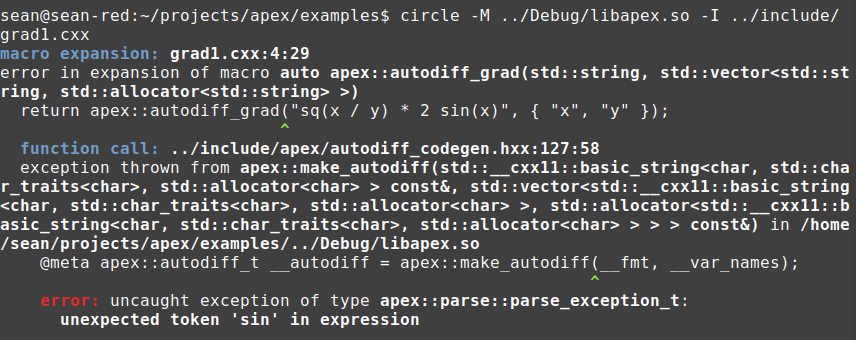
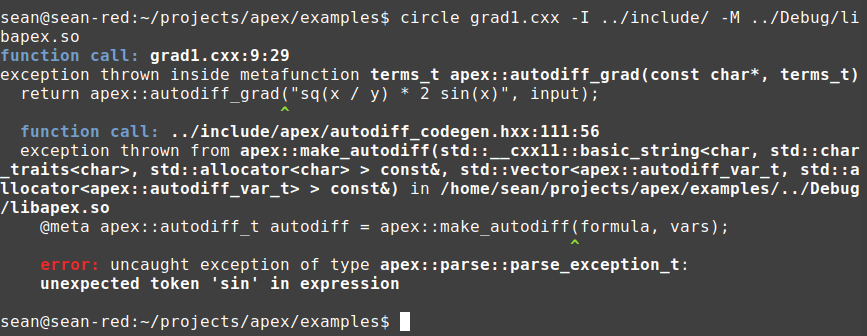
Modified autodiff interface to use introspection

Changed region(s): [[0.0, 0.0298, 1.0, 0.9821]]

diff --git a/examples/autodiff.md b/examples/autodiff.md
@@ -51,13 +51,18 @@ A strength of this approach is that it requires very little Circle code, only a 
 ```cpp
 #include <apex/autodiff_codegen.hxx>
 
-std::array<double, 2> my_grad(double x, double y) {
-  return apex::autodiff_grad("sq(x / y) * sin(x)", { "x", "y" });
+struct terms_t {
+  double x;
+  double y;
+};
+
+terms_t my_grad(terms_t input) {
+  return apex::autodiff_grad("sq(x / y) * sin(x * y)", input);
 }
 
 int main() {
-  auto grad = my_grad(.3, .5);
-  printf("%f %f\n", grad[0], grad[1]);
+  terms_t grad = my_grad( { .3, .5 } );
+  printf("%f %f\n", grad.x, grad.y);
   return 0;
 }
 ```
@@ -67,7 +72,9 @@ $ ./grad1
 1.053170 0.425549
 ```
 
-To use Apex's autodiff, pass the formula to differentiate as a string, followed by an `std::vector` of independent variable names. The result object is the total derivative gradient stored in an `std::array`. The names of the independent variables in the string must match their names in the scope of the call--don't let the string literal fool you, the EDSL is real code (although not C++ code), and the values of the independent variables are gathered from their expression names in the formula string.
+To use Apex's autodiff, pass the formula to differentiate as a string, followed by a class object with the values of each primary input. The names referenced in the formula must correspond to the member names in the class object. We'll use Circle's type introspection to help relate the type information to the variable names.
+
+The result object is another instance of the class type, this time holding the partial derivatives rather than the values of the independent variables.
 
 After just two days of programming, this package supports these expressions and elementary functions:
 * Binary + - * and /.
@@ -215,6 +222,10 @@ The autodiff library traverses the parse tree and builds a data structure called
 ```cpp
 struct autodiff_t {
   struct item_t {
+    // The dimension of the tape item. 
+    // 0 == dim for scalar. dim > 0 for vector.
+    int dim;
+
     // The expression to execute to compute this dependent variable's value.
     // This is evaluated during the upsweep when creating the tape from the 
     // independent variables and moving through all subexpressions.
@@ -236,15 +247,17 @@ struct autodiff_t {
   };
 
   // The first var_names.size() items encode independent variables.
-  std::vector<std::string> var_names;
+  std::vector<autodiff_var_t> vars;
   std::vector<item_t> tape;
 };
 
 autodiff_t make_autodiff(const std::string& formula, 
-  const std::vector<std::string>& var_names);
+  const std::vector<autodiff_var_t>& vars);
 ```
 
 The result object of `make_autodiff` is an object of type `autodiff_t`. This holds the _tape_, and each tape item holds expressions to evaluating the tape's subexpression and that subexpression's gradient. The index in each gradient component refers to a position within the tape corresponding to the variable (dependent or independent) that the partial derivative is computed with respect to. When traversing the tape DAG, we concatenate partial derivatives; when we hit a terminal node (an independent variable), we increment the output gradient by the total derivative--this is the chain rule in action.
+
+Although the DSL doesn't yet support it, the tape is designed to accomodate vector types in addition to scalar types.
 
 The autodiff IR needs to be comprehensive enough to encode any operations found in the expression to differentiate. We chose the design for easy lowering using intrinsics like `@op` and `@expression` to generate code from strings.
 
@@ -372,48 +385,44 @@ The strength of this design is that you aren't relying on C++'s overload resolut
 
 [**autodiff_codegen.hxx**](../include/apex/autodiff_codegen.hxx)
 ```cpp
-@macro auto autodiff_grad(std::string __fmt, 
-  std::vector<std::string> __var_names, bool print_debug = false) {
+template<typename type_t>
+@meta type_t autodiff_grad(@meta const char* formula, type_t input) {
 
-  // Construct the autodiff builder. make_autodiff is in libapex.so.
-  @meta apex::autodiff_t __autodiff = apex::make_autodiff(__fmt, __var_names);
+  // Parse out the names from the inputs.
+  static_assert(std::is_class<type_t>::value, 
+    "argument to autodiff_eval must be a class object");
 
-  // Print the tape if requested. print_autodiff is in libapex.so.
-  @meta if(print_debug)
-    @meta printf(apex::print_autodiff(__autodiff).c_str());
+  // Collect the name of each primary input.
+  @meta std::vector<autodiff_var_t> vars;
+  @meta size_t num_vars = @member_count(type_t);
 
-  // Generate and call into a metafunction. The meta argument is the
-  // autodiff builder. The real arguments are the values of each of the
-  // independent variables, evaluated in the scope of solve_autodiff's 
-  // caller and supplied to autodiff_eval using parameter pack expansion. 
-  return autodiff_eval(
-    __autodiff, 
-    @expression(__var_names[__integer_pack(__var_names.size())])...
-  );
-}
-```
+  // Copy the values of the independent variables into the tape.
+  double tape_values[num_vars];
+  @meta for(int i = 0; i < num_vars; ++i) {
+    // Confirm that we have a scalar double-precision term.
+    static_assert(std::is_same<@member_type(type_t, i), double>::value,
+      std::string("member ") + @member_name(type_t, i) + " must be type double");
 
-`autodiff_grad` is implemented as an expression macro. This allows us to harvest the values of the independent variables from their names, because the expression macro is expanded in the scope of the call site. It can create any meta objects (which we double-underscore to avoid shadowing independent variable names during subsequent name lookup), but may only emit a single real _return-statement_. The argument of the return is inlined into the calling expression.
+    // Push the primary input name.
+    @meta vars.push_back({
+      @member_name(type_t, i),
+      0
+    });
 
-The expression macro constructs the autodiff tape (the IR) with a compile-time call to `make_autodiff`. This function is implemented in `libapex.so`, so `-M libapex.so` must be specified as a `circle` argument to load this shared object library as a dependency. The expression macro returns a call to the metafunction `autodiff_eval`, passing the `autodiff_t` meta object and the value of each independent variable as arguments.
+    // Set the primary input's value.
+    tape_values[i] = @member_ref(input, i);
+  }
 
-```cpp
-template<typename... args_t>
-@meta std::array<double, sizeof...(args_t)> autodiff_eval(
-  @meta const apex::autodiff_t& autodiff, args_t... args) {
-
-  @meta size_t num_vars = autodiff.var_names.size();
-  @meta size_t num_items = autodiff.tape.size();
+  // Construct the tape. This makes a foreign function call into libapex.so.
+  @meta apex::autodiff_t autodiff = apex::make_autodiff(formula, vars);
+  @meta size_t count = autodiff.tape.size();
 
   // Compute the values for the whole tape. This is the forward-mode pass. 
   // It propagates values from the terminals (independent variables) through
   // the subexpressions and up to the root of the function.
 
-  // Copy the values of the independent variables into the tape.
-  double tape_values[num_items] { args... };
-
   // Evaluate the subexpressions.
-  @meta for(size_t i = num_vars; i < num_items; ++i)
+  @meta for(size_t i = num_vars; i < count; ++i)
     tape_values[i] = autodiff_expr(autodiff.tape[i].val.get());
 
   // Evaluate the gradients. This is a top-down reverse-mode traversal of 
@@ -422,12 +431,11 @@ template<typename... args_t>
   // corresponding component of the gradient is incremented by the product of
   // all the partial derivatives from the root of the DAG down to that 
   // terminal.
-
-  double coef[num_items];
-  std::array<double, num_vars> grad { };
+  double coef[num_vars];
+  type_t grad { };
 
   // Visit each child of the root node.
-  @meta int root = num_items - 1;
+  @meta int root = count - 1;
   @meta for(const auto& g : autodiff.tape[root].grads) {
     // Evaluate the coefficient into the stack.
     coef[root] = autodiff_expr(g.coef.get());
@@ -440,7 +448,9 @@ template<typename... args_t>
 }
 ```
 
-`autodiff_eval` is a [metafunction](https://github.com/seanbaxter/circle#metafunctions). This establishes a new scope separate from the expression context of the call site, allowing us to spread our legs a bit and declare all of the meta and real objects we care to construct. Here we allocate an array of values to hold the state of the _tape_, meaning the values of each independent variable and each subexpression encountered in the formula. These are computed bottom-up just once, and memoized into `tape_values`. 
+`autodiff_grad` is implemented as a metafunction. Recall that these are like super function templates: some parameters are marked `@meta`, requiring compile-time arguments be provided. By making the input formula string `@meta`, we can pass the string to `apex::make_autodiff` at compile time to generate an IR. This function is implemented in `libapex.so`, so `-M libapex.so` must be specified as a `circle` argument to load this shared object library as a dependency.
+
+After the tape has been computed and returned, we first initialize the tape values in forward order (that is, from the leaves of the expression tree up to the root). Then, we may the reverse pass, propagating partial derivatives from the root of the expression tree down to the terminals, where the gradient is finally updated.
 
 Although the values in the tape will be used again during the top-down gradient pass, their storage may be a performance limiter in problems with a very large number of temporary nodes. Because the library defines its own IR and scheduling intelligence, it's feasible to extend the IR and emit instructions to rematerialize temporary values to alleviate storage pressure. 
 
@@ -487,14 +497,19 @@ The expression macro `autodiff_expr` recurses an `ad_t` tree and switches on eac
 
 Each tape item (corresponding to sparse matrix row) includes one `ad_t` tree that renders the value of the subexpression, and one `ad_t` per child node in the DAG to compute partial derivatives. The values are computed in bottom-up order (forward through the tape), and the partial derivatives are computed in top-down order (reverse mode through the tape). An optimization potential may be exposed by evaluating all partial derivatives in parallel (there are no data dependencies between them), and using a parallelized sparse back-propagation code to concatenate the partial derivatives. Again, these choices should be made by the intelligence of the library, which is well-separated from the metaprogramming concerns of the code generator.
 
+
+
+
+
+
 ## DSL error reporting
 
-Circle has been adding capability for better integration of compile-time exceptions with compiler errors. With build 29, if an exception is thrown either from the Circle interpreter or from a foreign function call to a dynamically-loaded shared object, a backtrace for the unhandled exception is printed along with the exception's error. This helps us understand exactly where and why the error was generated.
+Circle has been adding capability for better integration of compile-time exceptions with compiler errors. If an exception is thrown either from the Circle interpreter or from a foreign function call to a dynamically-loaded shared object, a backtrace for the unhandled exception is printed along with the exception's error. This helps us understand exactly where and why the error was generated.
 
 Consider breaking the syntax of our Apex autodiff function:
 ```cpp
-std::array<double, 2> my_grad(double x, double y) {
-  return apex::autodiff_grad("sq(x / y) * 2 sin(x)", { "x", "y" });
+terms_t my_grad(terms_t input) {
+  return apex::autodiff_grad("sq(x / y) * 2 sin(x)", input);
 }
 ```
 
@@ -517,7 +532,7 @@ This exception originates in compiled code, and unrolls the stack through the fo
 
 ![grad1.cxx errors](autodiff_errors.png)
 
-The text saved in the `parse_exception_t` class (which derives `std::runtime_error`, which is how we access its error message) is printed in the most-indented part of the error. Around that, we're shown that it's thrown from `apex::make_autodiff` from `libapex.so`. In turn, that function call is made from macro expansion of `apex::autodiff_grad`. The offending string is shown here, and we can see the call to `sin` which corresponds to the parse error thrown from inside Apex.
+The text saved in the `parse_exception_t` class (which derives `std::runtime_error`, which is how we access its error message) is printed in the most-indented part of the error. Around that, we're shown that it's thrown from `apex::make_autodiff` from `libapex.so`. In turn, that function call is made from inside the instantiation of the metafunction `apex::autodiff_grad`. The offending string is shown here, and we can see the call to `sin` which corresponds to the parse error thrown from inside Apex.
 
 The backtrace will print the full path of functions called, regardless of if they are called from interpreted or compiled code. Additionally, the _throw-expression_ generating the exception is flagged:
 
